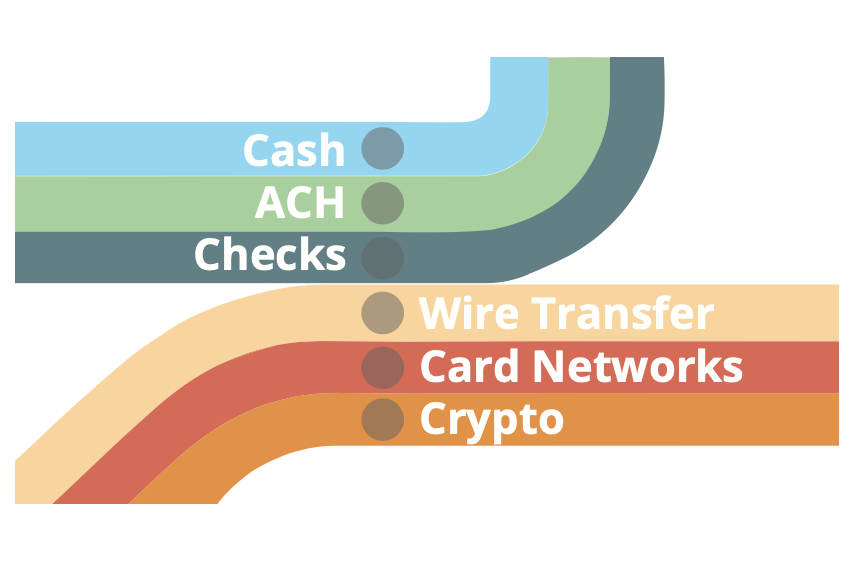
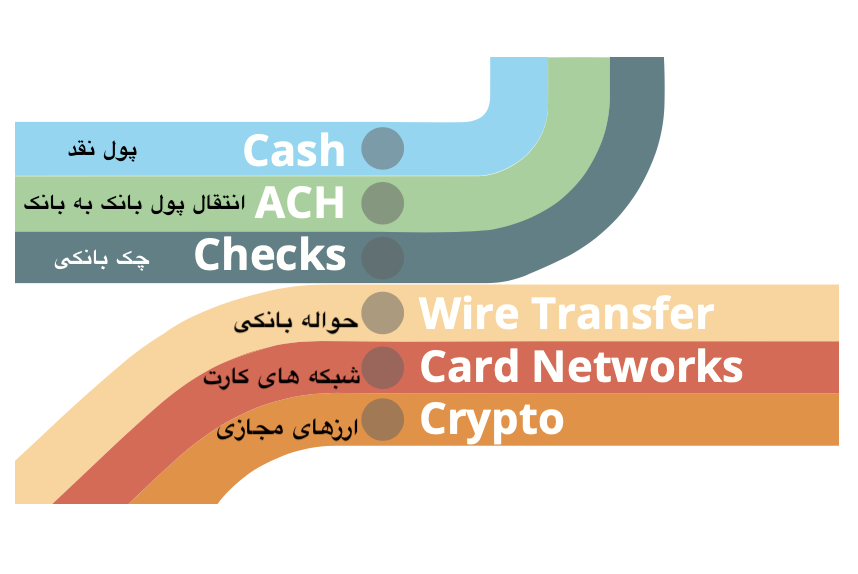
Bitcoin diploma en ch1,2 and fa ch1 complete

diff --git a/fa/courses/btc-diploma/chapter-1.html b/fa/courses/btc-diploma/chapter-1.html
@@ -66,19 +66,7 @@
                     آماده اید؟
                 </h4>
                 <div>
-                    <aside>
-                        <p>
-                            <img alt="notice" src="/assets/images/notice.png" width="20" height="20">
-                            بیت کوین هر چه باشد؛ بیشتر افراد هنوز نمی دانند که این نوآوری بحث برانگیز و تأثیرگذار در
-                            مورد چیست و چگونه کار می کند
-                            <br>
-                            <img alt="notice" src="/assets/images/notice.png" width="20" height="20">
-                            <a target="_blank" href="https://www.youtube.com/watch?v=zpNlG3VtcBM">
-                                <i>
-                                    این یک مستند برنده جایزه است که به شما کمک می کند به این سوالات پاسخ دهید.
-                                </i> </a>
-                        </p>
-                    </aside>
+
                     <p>
                         <b> بیت کوین</b>
                         را چیزهای زیادی می نامند - یک مد، یک کلاهبرداری، "پول اینترنتی جادویی". اما در پشت این
@@ -428,11 +416,13 @@
                         به طور خلاصه، <b>پول:</b>
                     </p>
                     <aside>
-                        <p>
-                            <img alt="notice" src="/assets/images/notice.png" width="20" height="20">
-                            این ویدیوی کوتاه را ببینید!
+                        <p class="text-alignment-center">
                             <a target="_blank" href="https://www.youtube.com/watch?v=InwVM6s7WoY">
-                                <i><b>پول چیست؟</b></i> </a>
+                                این ویدیوی کوتاه را ببینید! <br>
+                                <i><b>پول چیست؟</b></i>
+                                <img alt="What is money?"
+                                    src="/fa/courses/btc-diploma/assets/images/video-what-is-money.png" width="300">
+                            </a>
                         </p>
                     </aside>
                     <ul>
@@ -1025,7 +1015,8 @@
                     </div>
                     <div>
                         <br><br>
-                        <img alt="راههای پرداخت" src="/courses/btc-diploma/images/payment-rails.png" width="400">
+                        <img alt="راههای پرداخت" src="/fa/courses/btc-diploma/assets/images/payment-rails.png"
+                            width="400">
                     </div>
                 </div>
                 <div class="two-col">

diff --git a/fa/courses/btc-diploma/btc-diploma.html b/fa/courses/btc-diploma/btc-diploma.html
@@ -78,9 +78,11 @@
                 <details>
                     <summary>
                         <img alt="notice" src="/assets/images/notice.png" width="25" height="25">
-                        پیامی از بنیانگذار «اولین بیت کوین من».
+                        دیپلم «اولین بیت کوین من».
                     </summary>
                     <h4>بیت کوین و آموزش</h4>
+                    <p><i>
+                            پیامی از بنیانگذار «اولین بیت کوین من».</i></p>
                     <p>
                         بیت کوین جهان را تغییر خواهد داد. این مسلم است. چیزی که باید تصمیم بگیریم این است که
                         چگونه.
@@ -97,11 +99,23 @@
                         که آیا شما تصمیم می گیرید که چگونه تغییر کند یا اجازه می دهید شخص دیگری برای شما
                         تصمیم بگیرد.
                     </p>
-
+                    <aside class="float-left">
+                        <p>
+                            <img alt="notice" src="/assets/images/notice.png" width="20" height="20">
+                            بیت کوین هر چه باشد؛ بیشتر افراد هنوز نمی دانند که این نوآوری بحث برانگیز و تأثیرگذار در
+                            مورد چیست و چگونه کار می کند
+                            <br>
+                            <img alt="notice" src="/assets/images/notice.png" width="20" height="20">
+                            <a target="_blank" href="https://www.youtube.com/watch?v=zpNlG3VtcBM">
+                                <i>
+                                    این یک مستند برنده جایزه است که به شما کمک می کند به این سوالات پاسخ دهید.
+                                </i> </a>
+                        </p>
+                    </aside>
                     <details>
-                        <summary>
+                        <summary class="text-alignment-center">
                             <img alt="notice" src="/assets/images/exclamation.png" width="20" height="20">
-                            قبل از مطالعه بیت کوین، داشتن درک کامل از اصول اولیه پول، تاریخچه آن و ...
+                            قبل از مطالعه بیت کوین، داشتن درک کامل از اصول <br> اولیه پول، تاریخچه آن و ...
                         </summary>
                         <p>
                             <img alt="notice" src="/assets/images/exclamation.png" width="20" height="20">

diff --git a/en/courses/btc-diploma/chapter-1.html b/en/courses/btc-diploma/chapter-1.html
@@ -13,7 +13,7 @@
     <meta property="og:type" content="website">
     <meta property="og:title" content="The Power of Money">
     <meta property="og:image" content="https://ebbi.github.io/en/courses/btc-diploma/assets/images/4.jpg">
-    <meta property="og:image:secure_url" content="https://ebbi.github.io/courses/btc-diploma/assets/images/4.jpg">
+    <meta property="og:image:secure_url" content="https://ebbi.github.io/en/courses/btc-diploma/assets/images/4.jpg">
     <meta property="og:image:width" content="840">
     <meta property="og:image:height" content="859">
     <meta property="og:description"
@@ -462,16 +462,14 @@
                         <li>
                             <b>Facilitates trade</b> because <b>everyone accepts it as final payment.</b>
                             <aside>
-                                <p>
-                                    <img alt="notice" src="/assets/images/notice.png" width="20" height="20">
-                                    Check out this short video!
+                                <p class="text-alignment-center">
                                     <a target="_blank" href="https://www.youtube.com/watch?v=InwVM6s7WoY">
-                                        <i>
-                                            What is
-                                            <b>
-                                                Money</b>
-                                            ?
-                                        </i> </a>
+                                        Check out this video! <br>
+                                        <i>What is <b>Money</b>?</i>
+                                        <img alt="What is money?"
+                                            src="/en/courses/btc-diploma/assets/images/video-what-is-money.png"
+                                            width="300">
+                                    </a>
                                 </p>
                             </aside>
                         </li>
